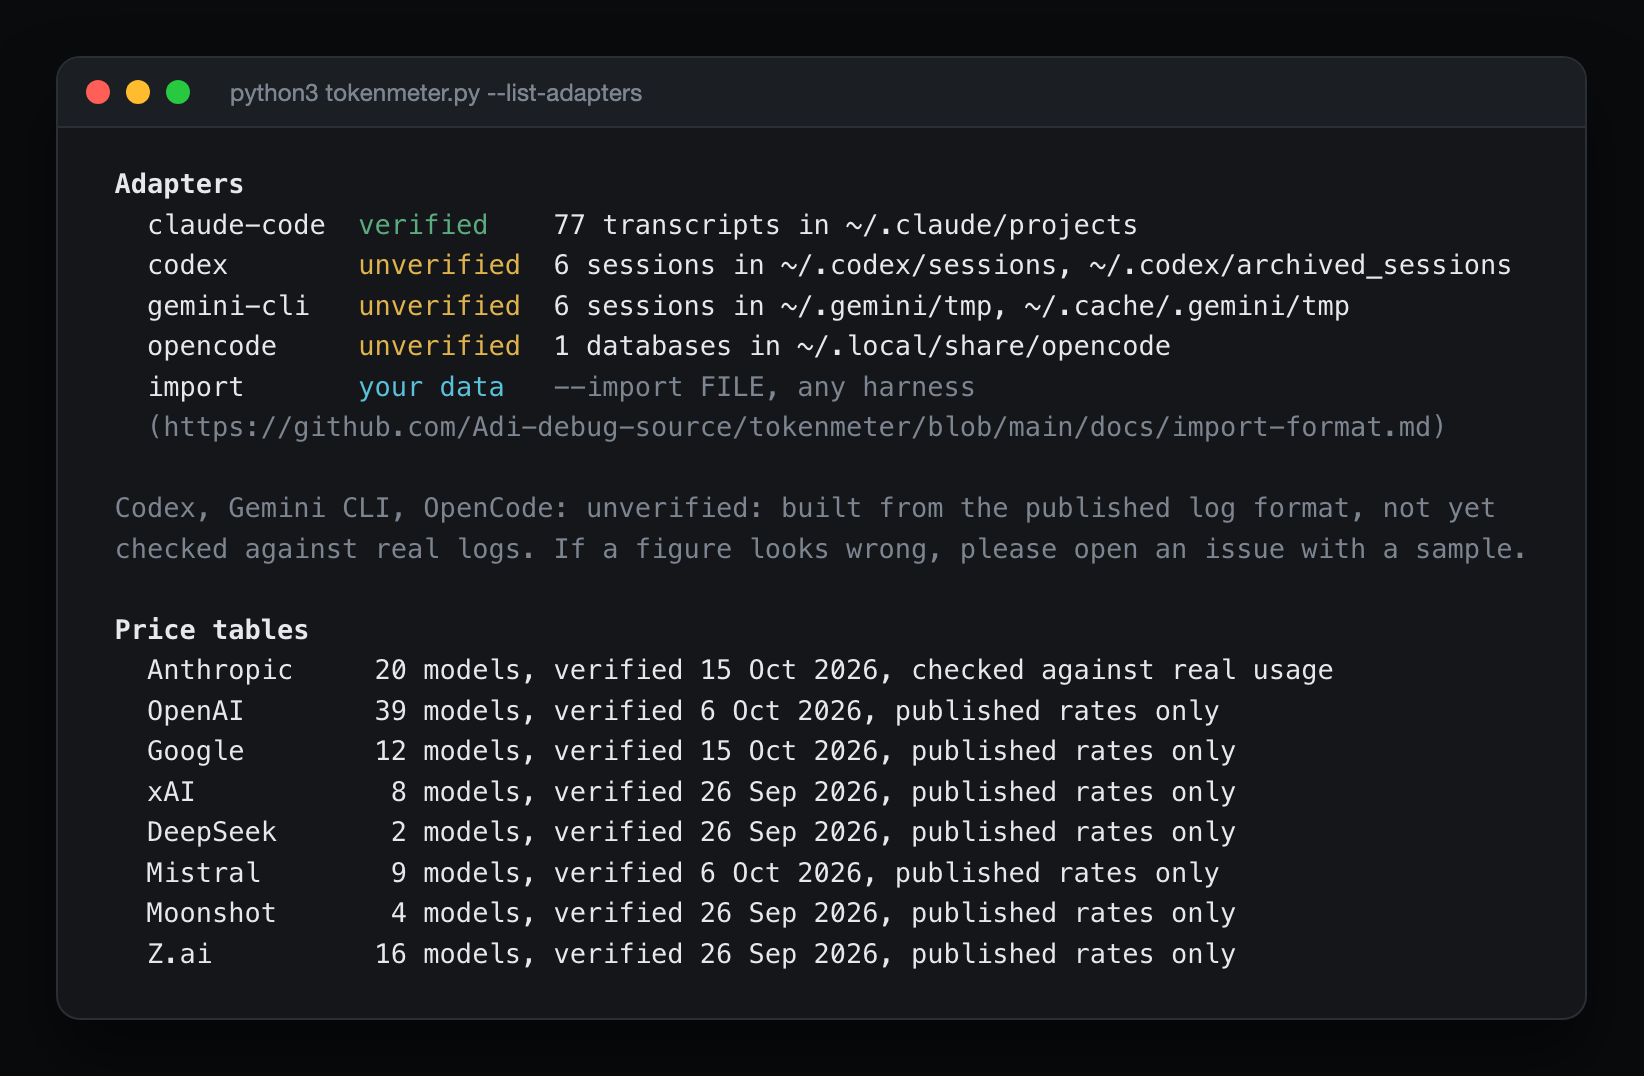
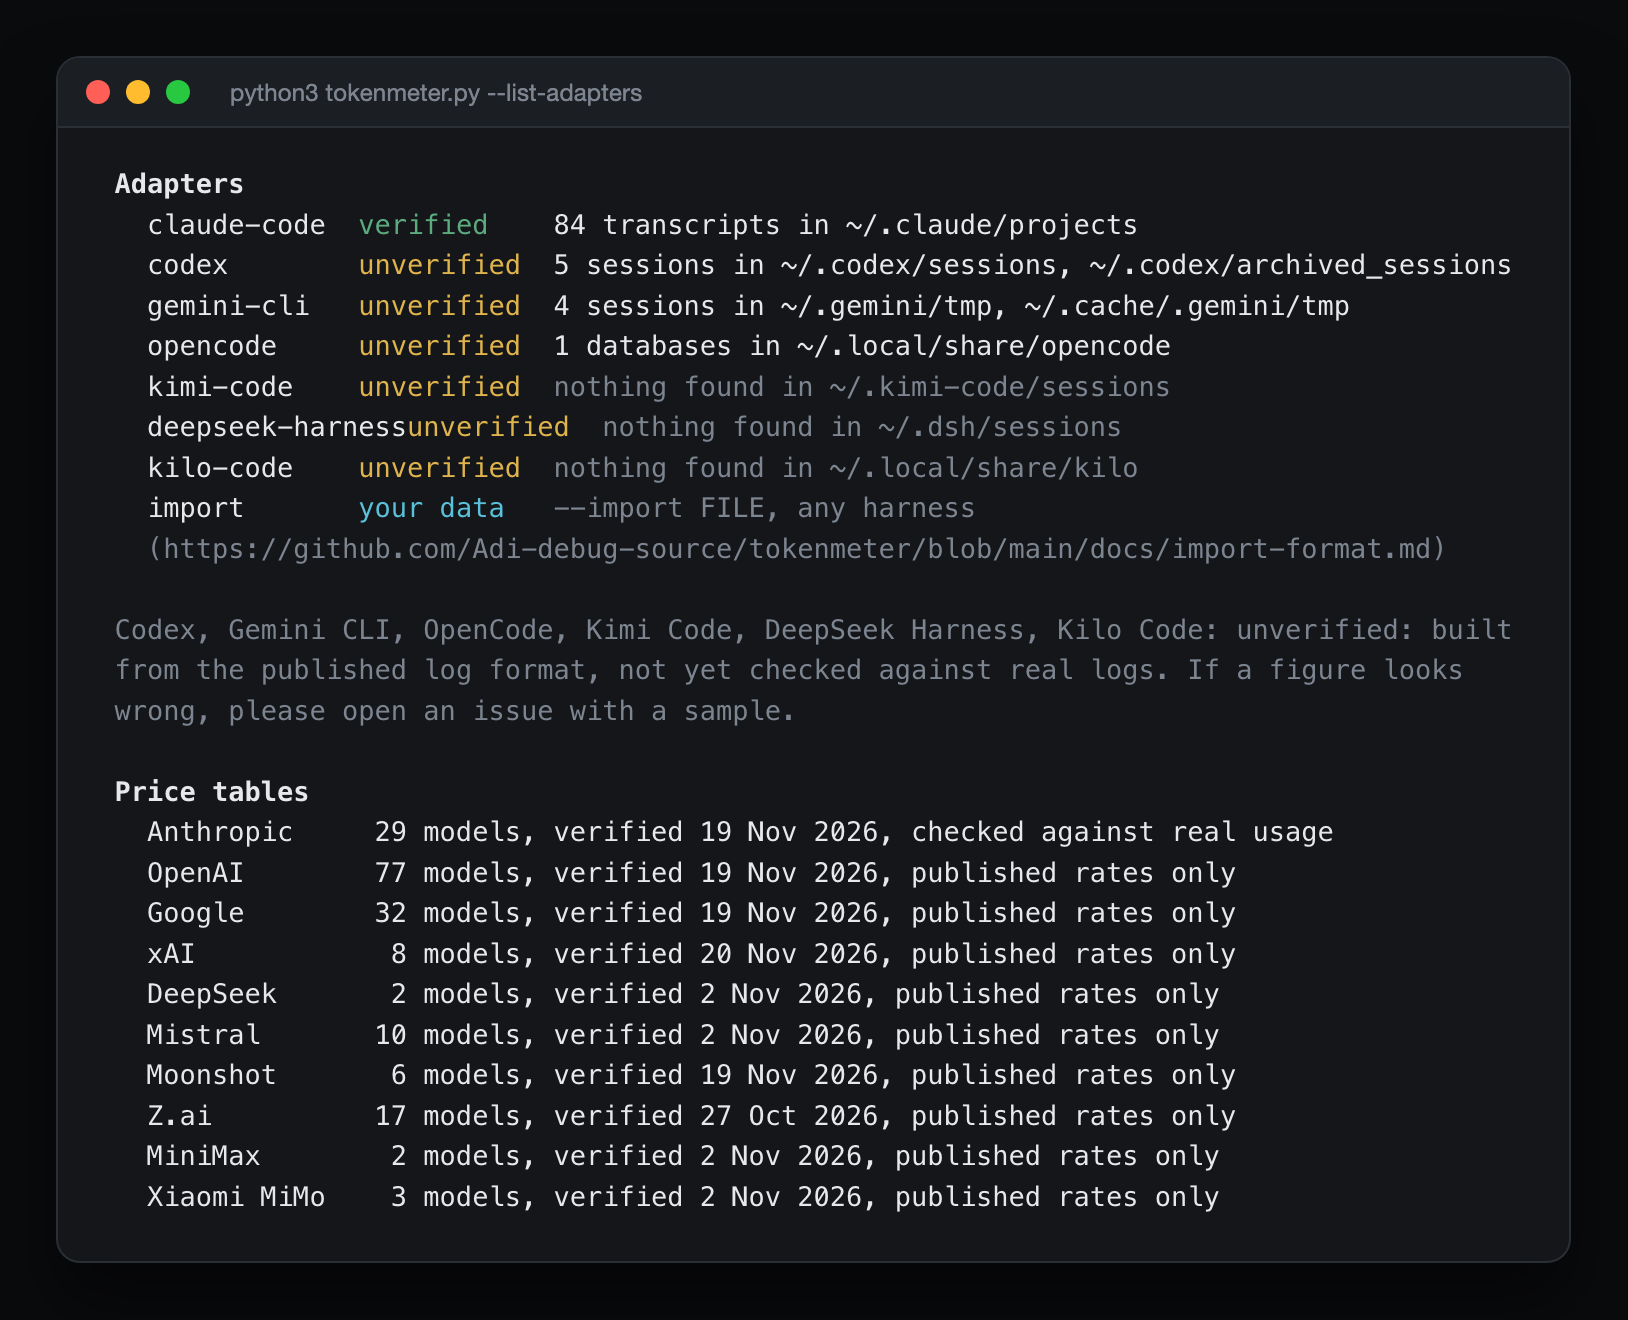
docs(images): every image retaken from today's demo, and two clips
The terminal and dashboard images dated from 16 October and showed eight
price tables and four readers. They are retaken from an invented history
made on 20 November 2026, with the status line's image added. clip.py is
new: it records dashboard.gif (the page opening, a day picked out, the
currency switched, a scroll through the sections) and terminal.gif (two
reports typed into a terminal), each under 3 MB, from the same demo. The
social preview's figures follow the demo's.

The menu bar image is still 16 October's capture: it needs a person at the
screen.

diff --git a/docs/github/social_preview.swift b/docs/github/social_preview.swift
@@ -126,10 +126,10 @@ pill(card, radius: 18, fill: CARD, stroke: LINE)
 let inner = card.minX + 30, edge = card.maxX - 30
 draw([("ALL TIME, AT API RATES", DIM)], font("InterTight-Regular_Medium", 15), x: inner, top: 158,
      tracking: 1.1)
-draw([("$174.69", INK)], font("Fraunces-Regular", 62), x: inner, top: 182, tracking: -1)
+draw([("$171.86", INK)], font("Fraunces-Regular", 62), x: inner, top: 182, tracking: -1)
 let row = font("InterTight-Regular", 22), figure = font("InterTight-Regular_SemiBold", 22)
-for (i, (name, value)) in [("Today", "$3.43"), ("Last 7 days", "$24.60"),
-                           ("Last 30 days", "$72.88")].enumerated() {
+for (i, (name, value)) in [("Today", "$3.65"), ("Last 7 days", "$16.84"),
+                           ("Last 30 days", "$77.92")].enumerated() {
     let top = 282 + CGFloat(i) * 52
     RULE.setFill()
     CGRect(x: inner, y: H - top, width: edge - inner, height: 1).fill()

diff --git a/docs/screenshots/clip.py b/docs/screenshots/clip.py
@@ -1,0 +1,274 @@
+#!/usr/bin/env python3
+"""
+Record the README's two short clips from a demo made by make_demo.py.
+
+    DEMO=/tmp/tokenmeter-demo
+    TZ=Europe/London python3 docs/screenshots/make_demo.py "$DEMO" --now 2026-11-20T17:40 --force
+    TZ=Europe/London python3 docs/screenshots/clip.py "$DEMO"
+
+It writes dashboard.gif and terminal.gif beside itself. Like shoot.py, whose
+engine runs and headless Chrome it borrows, it reads the demo and nothing
+else, and opens no window.
+
+1. dashboard.gif is the engine's --html page as it opens: the chart drawing
+   itself, a day picked out on it, the currency switched to pounds and back,
+   then a scroll down through the sections. The page's own motion
+   runs in real time, so each frame is taken on a clock; the pointer, the
+   click and the scroll are sent over Chrome's DevTools protocol.
+2. terminal.gif is two commands typed into a terminal window drawn as
+   terminal_page.py draws the stills, with the engine's real output for
+   each. Every frame is set from here, so it comes out the same every run.
+   It opens on the first report and loops through the typing.
+
+Both are scaled to 900 pixels wide at 10 frames a second with a palette of
+their own. macOS only: it needs Google Chrome and ffmpeg. Python 3.9 or
+later, standard library only.
+"""
+
+from __future__ import annotations
+
+import argparse
+import base64
+import html
+import json
+import os
+import shutil
+import subprocess
+import sys
+import tempfile
+import time
+
+HERE = os.path.dirname(os.path.abspath(__file__))
+sys.path.insert(0, HERE)
+
+import shoot  # noqa: E402
+import terminal_page  # noqa: E402
+
+FPS = 10
+OUT_WIDTH = 900
+# CSS pixels: shoot.py's dashboard width, and tall enough to hold the page
+# from its title to the foot of the chart, so the first frame is the whole
+# first screen and the chart is seen drawing itself.
+VIEW = (1400, 1250)
+
+# The terminal clip: each command as typed, and the arguments the engine gets.
+COMMANDS = [("tokenmeter --period week --by day", ["--period", "week", "--by", "day"]),
+            ("tokenmeter --by model", ["--by", "model"])]
+COLUMNS = 104
+ROWS = 36
+PROMPT = '<span class="p">$</span> '
+
+TERMINAL_PAGE = """<!doctype html>
+<html><head><meta charset="utf-8"><style>
+:root{--backdrop:#0a0b0d;--body:#14161a;--bar:#1b1e23;--edge:#2a2e35;
+  --ink:#e6e8eb;--dim:#7d8590;--cyan:#5bc0d9;--green:#5cab7f;--yellow:#e0b44c;--clay:#d97757}
+html,body{margin:0;background:var(--backdrop)}
+body{padding:28px;display:inline-block}
+.win{border:1px solid var(--edge);border-radius:12px;background:var(--body);overflow:hidden}
+.bar{height:34px;background:var(--bar);border-bottom:1px solid var(--edge);display:flex;
+  align-items:center;padding-left:14px}
+.bar i{width:12px;height:12px;border-radius:50%;margin-right:8px;display:block}
+.bar i:nth-child(1){background:#ff5f57}.bar i:nth-child(2){background:#febc2e}
+.bar i:nth-child(3){background:#28c840}
+.bar span{margin-left:12px;color:var(--dim);font:12px/1 -apple-system,"SF Pro Text",
+  "Helvetica Neue",sans-serif}
+pre{margin:0;padding:18px 12px 22px;color:var(--ink);width:COLUMNSch;height:HEIGHTpx;
+  font:13.5px/20.25px "SF Mono",ui-monospace,Menlo,monospace;
+  font-variant-ligatures:none;-webkit-font-smoothing:antialiased;overflow:hidden}
+pre b{font-weight:700}
+.blk{display:inline-block;height:14px;margin-top:4px;vertical-align:top;background:currentColor}
+.d{color:var(--dim)}.c{color:var(--cyan)}.g{color:var(--green)}.y{color:var(--yellow)}
+.p{color:var(--clay);font-weight:700}
+.cur{display:inline-block;width:1ch;height:16px;margin-top:2px;vertical-align:top;background:var(--ink)}
+</style></head>
+<body><div class="win"><div class="bar"><i></i><i></i><i></i><span>tokenmeter</span></div>
+<pre id="t"></pre></div></body></html>
+"""
+
+MEASURE = """JSON.stringify((function () {
+  const view = document.querySelector('.view[data-view="all"]') || document.body;
+  const hit = document.querySelector('.hit').getBoundingClientRect();
+  return {sections: Array.prototype.slice.call(view.querySelectorAll('section'))
+            .filter(s => s.parentElement === view)
+            .map(s => s.getBoundingClientRect().top + window.scrollY),
+          hit: [hit.left, hit.top, hit.width, hit.height],
+          height: document.documentElement.scrollHeight};
+})())"""
+
+
+def ease(p: float) -> float:
+    p = min(1.0, max(0.0, p))
+    return p * p * (3 - 2 * p)
+
+
+class Page(shoot.Browser):
+    """shoot.py's Chrome, in a window the size of one clip frame."""
+
+    def view(self, width: int, height: int) -> None:
+        self.call("Emulation.setDeviceMetricsOverride", width=width, height=height,
+                  deviceScaleFactor=1, mobile=False)
+
+    def go(self, page: str) -> None:
+        self.call("Page.enable")
+        self.events = []
+        if self.call("Page.navigate", url="file://" + page).get("errorText"):
+            sys.exit(f"clip.py: Chrome could not open {page}")
+        while "Page.loadEventFired" not in self.events:
+            self.events.append(self.message().get("method"))
+
+    def run(self, script: str):
+        result = self.call("Runtime.evaluate", expression=script, returnByValue=True)
+        if "exceptionDetails" in result:
+            sys.exit("clip.py: the page refused a script: " + json.dumps(result["exceptionDetails"]))
+        return result["result"].get("value")
+
+    def frame(self, path: str) -> None:
+        with open(path, "wb") as f:
+            f.write(base64.b64decode(self.call("Page.captureScreenshot", format="png")["data"]))
+
+
+def gif(frames: str, target: str) -> None:
+    """The numbered frames as one looping GIF with a palette of its own."""
+    out = subprocess.run(
+        ["ffmpeg", "-y", "-loglevel", "error", "-framerate", str(FPS), "-i",
+         os.path.join(frames, "%04d.png"), "-vf",
+         f"scale={OUT_WIDTH}:-1:flags=lanczos,split[a][b];[a]palettegen=max_colors=96:"
+         "stats_mode=diff[p];[b][p]paletteuse=dither=none:diff_mode=rectangle",
+         "-loop", "0", target], capture_output=True, text=True)
+    if out.returncode:
+        sys.exit("clip.py: ffmpeg failed:\n" + out.stderr[-2000:])
+
+
+def dashboard_clip(folder: str, target: str, work: str) -> None:
+    page = os.path.join(work, "Tokenmeter.html")
+    shoot.tokenmeter(folder, "--html", page, "--no-open")
+    frames = os.path.join(work, "dashboard-frames")
+    os.makedirs(frames)
+    with Page(folder, "--force-dark-mode", "--blink-settings=preferredColorScheme=0",
+              timeout=300) as browser:
+        browser.view(*VIEW)
+        browser.go(page)
+        browser.run("try { localStorage.clear() } catch (e) {}")
+        time.sleep(1.5)
+        found = json.loads(browser.run(MEASURE))
+        tops = found["sections"]
+        left, top, width, height = found["hit"]
+        last = found["height"] - VIEW[1]
+        # (from second, to second, scroll from, scroll to)
+        stops = [0, max(0, tops[1] - 40), min(last, tops[4] - 40)]
+        scrolls = [(5.9, 6.9, stops[0], stops[1]), (8.1, 9.1, stops[1], stops[2])]
+        clicks = {4.0: "GBP", 5.1: "USD"}
+        # The first frame is taken once the headline figure has faded in,
+        # because it is what a viewer that never plays the clip shows.
+        first, total = 0.7, 10.3
+
+        browser.go(page)
+        started = time.monotonic()
+        done = set()
+        for i in range(int((total - first) * FPS)):
+            t = first + i / FPS
+            wait = started + t - time.monotonic()
+            if wait > 0:
+                time.sleep(wait)
+            if 2.0 <= t < 3.7:
+                p = ease((t - 2.0) / 1.6)
+                browser.call("Input.dispatchMouseEvent", type="mouseMoved",
+                             x=left + width * (0.45 + 0.5 * p), y=top + height * 0.45)
+            elif 3.7 <= t and "leave" not in done:
+                done.add("leave")
+                browser.call("Input.dispatchMouseEvent", type="mouseMoved", x=20, y=20)
+            for at, cur in clicks.items():
+                if t >= at and cur not in done:
+                    done.add(cur)
+                    browser.run(f"document.querySelector('.pill[data-cur=\"{cur}\"]').click()")
+            for begin, end, a, b in scrolls:
+                if begin <= t <= end + 1 / FPS:
+                    y = a + (b - a) * ease((t - begin) / (end - begin))
+                    browser.run(f"window.scrollTo(0, {y:.1f})")
+            browser.frame(os.path.join(frames, f"{i:04d}.png"))
+    gif(frames, target)
+
+
+def rows_of(text: str) -> list:
+    """The engine's output as the HTML rows terminal_page.py draws."""
+    lines = text.replace("\r\n", "\n").strip("\n").split("\n")
+    rows = []
+    for line in lines:
+        rows.extend(terminal_page.wrap(terminal_page.spans(line.rstrip()), COLUMNS))
+    return [terminal_page.render_row(row) for row in rows]
+
+
+def terminal_clip(folder: str, target: str, work: str) -> None:
+    """A terminal ROWS tall. What is on screen is the last ROWS rows of
+    everything typed and printed so far, as a real one scrolls."""
+    states = []                      # one list of rows per frame
+
+    def hold(rows: list, seconds: float) -> None:
+        states.extend([rows] * round(seconds * FPS))
+
+    screen = []
+    opening = 0
+    for typed, args in COMMANDS:
+        out = rows_of(shoot.tokenmeter(folder, *args))
+        hold(screen + [PROMPT + '<i class="cur"></i>'], 0.5)
+        for n in range(2, len(typed) + 1, 2):
+            states.append(screen + [PROMPT + html.escape(typed[:n]) + '<i class="cur"></i>'])
+        hold(screen + [PROMPT + html.escape(typed) + '<i class="cur"></i>'], 0.4)
+        screen = screen + [PROMPT + html.escape(typed)]
+        hold(screen, 0.4)
+        step = max(1, len(out) // 5)
+        for n in range(step, len(out), step):
+            states.append(screen + [""] + out[:n])
+        screen = screen + [""] + out + [""]
+        opening = opening or len(states)
+        hold(screen + [PROMPT + '<i class="cur"></i>'], 3.6)
+    # The clip opens on the first report, whole, because its first frame is
+    # what a viewer that never plays it shows; the typing that led to it
+    # comes round at the end.
+    states = states[opening:] + states[:opening]
+
+    page = os.path.join(work, "terminal.html")
+    with open(page, "w", encoding="utf-8") as f:
+        f.write(TERMINAL_PAGE.replace("COLUMNS", str(COLUMNS))
+                .replace("HEIGHT", f"{ROWS * 20.25:.2f}"))
+    frames = os.path.join(work, "terminal-frames")
+    os.makedirs(frames)
+    with Page(folder, timeout=300) as browser:
+        browser.view(1600, 1200)
+        browser.go(page)
+        size = json.loads(browser.run(
+            "JSON.stringify([document.body.getBoundingClientRect().width,"
+            "document.body.getBoundingClientRect().height])"))
+        browser.view(int(size[0] + 0.999), int(size[1] + 0.999))
+        for i, rows in enumerate(states):
+            shown = "\n".join(rows[-ROWS:])
+            browser.run("document.getElementById('t').innerHTML = " + json.dumps(shown))
+            browser.frame(os.path.join(frames, f"{i:04d}.png"))
+    gif(frames, target)
+
+
+def main(argv=None) -> None:
+    ap = argparse.ArgumentParser(description="Record the README's clips from a demo.")
+    ap.add_argument("folder", help="a demo folder made by make_demo.py")
+    ap.add_argument("--out", default=HERE, help="where the clips go (default: this folder)")
+    ap.add_argument("--only", choices=("terminal", "dashboard"), default="",
+                    help="record one clip only")
+    args = ap.parse_args(argv)
+    if not shutil.which("ffmpeg"):
+        sys.exit("clip.py: ffmpeg is needed to join the frames (brew install ffmpeg)")
+    folder = shoot.demo_folder(args.folder)
+    os.makedirs(args.out, exist_ok=True)
+    made = []
+    with tempfile.TemporaryDirectory(dir=os.path.join(folder, "tmp")) as work:
+        if args.only != "terminal":
+            made.append(os.path.join(args.out, "dashboard.gif"))
+            dashboard_clip(folder, made[-1], work)
+        if args.only != "dashboard":
+            made.append(os.path.join(args.out, "terminal.gif"))
+            terminal_clip(folder, made[-1], work)
+    for path in made:
+        print(f"{path}  {os.path.getsize(path):,} bytes")
+
+
+if __name__ == "__main__":
+    main()

diff --git a/docs/screenshots/make_demo.py b/docs/screenshots/make_demo.py
@@ -17,7 +17,7 @@ TIME is a local date and time such as 2026-10-16T17:40. The history ends at
 that minute, and nothing is dated after it. Without --now it ends at the
 current minute. Tokenmeter works out today, the last 7 days and the last 30
 from the real clock, so make the demo on the day it is used: the README's
-images were made with --now 2026-10-16T17:40 on 16 October 2026, in
+images were made with --now 2026-11-20T17:40 on 20 November 2026, in
 Europe/London (TZ=Europe/London).
 
 Every figure is invented

diff --git a/docs/screenshots/shoot.py b/docs/screenshots/shoot.py
@@ -3,7 +3,7 @@
 Take the README's screenshots from a demo made by make_demo.py.
 
     DEMO=/tmp/tokenmeter-demo
-    TZ=Europe/London python3 docs/screenshots/make_demo.py "$DEMO" --now 2026-10-16T17:40 --force
+    TZ=Europe/London python3 docs/screenshots/make_demo.py "$DEMO" --now 2026-11-20T17:40 --force
     TZ=Europe/London python3 docs/screenshots/shoot.py "$DEMO"
 
 The last command rewrites seven images in docs/screenshots: the three
